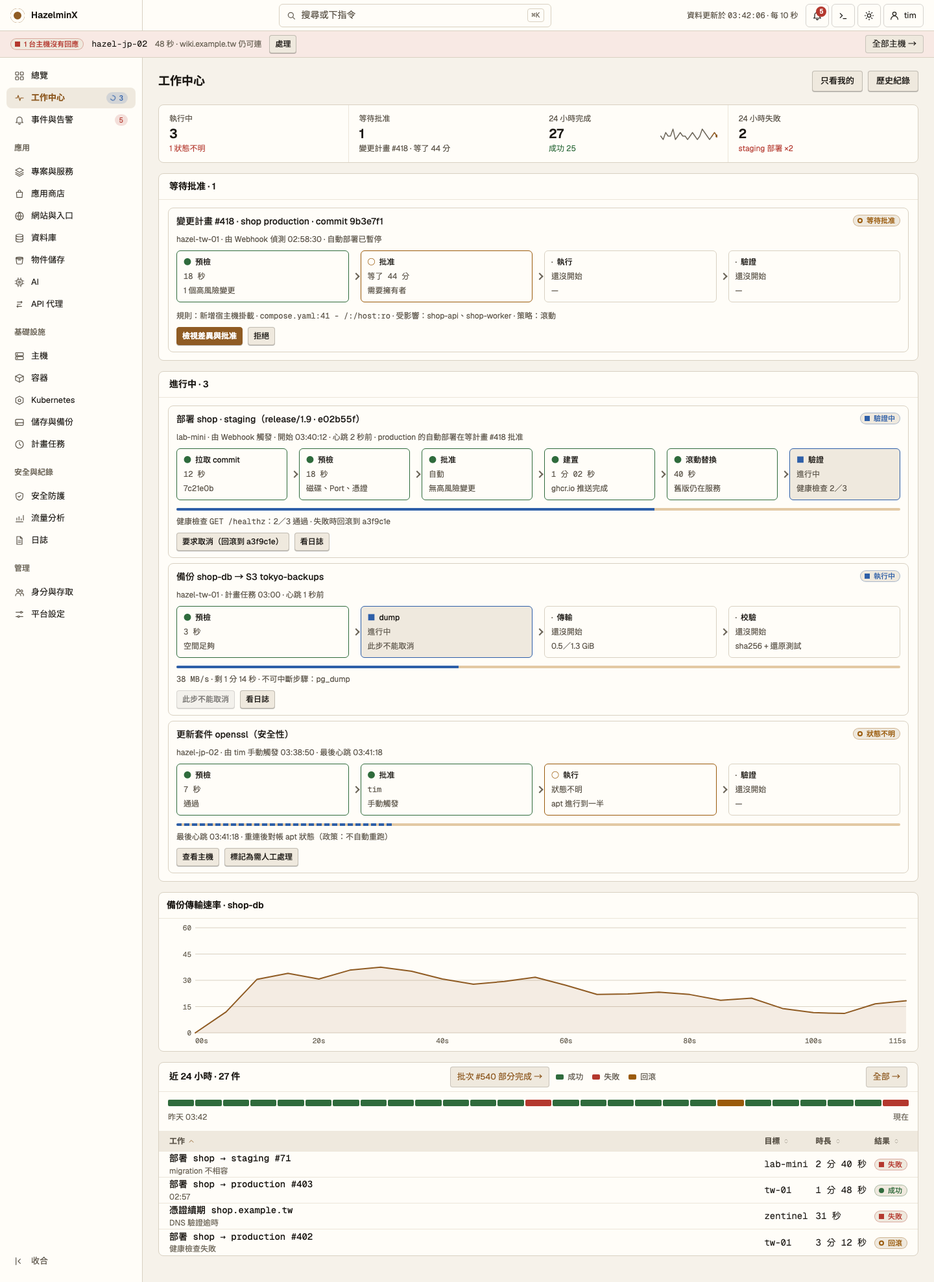
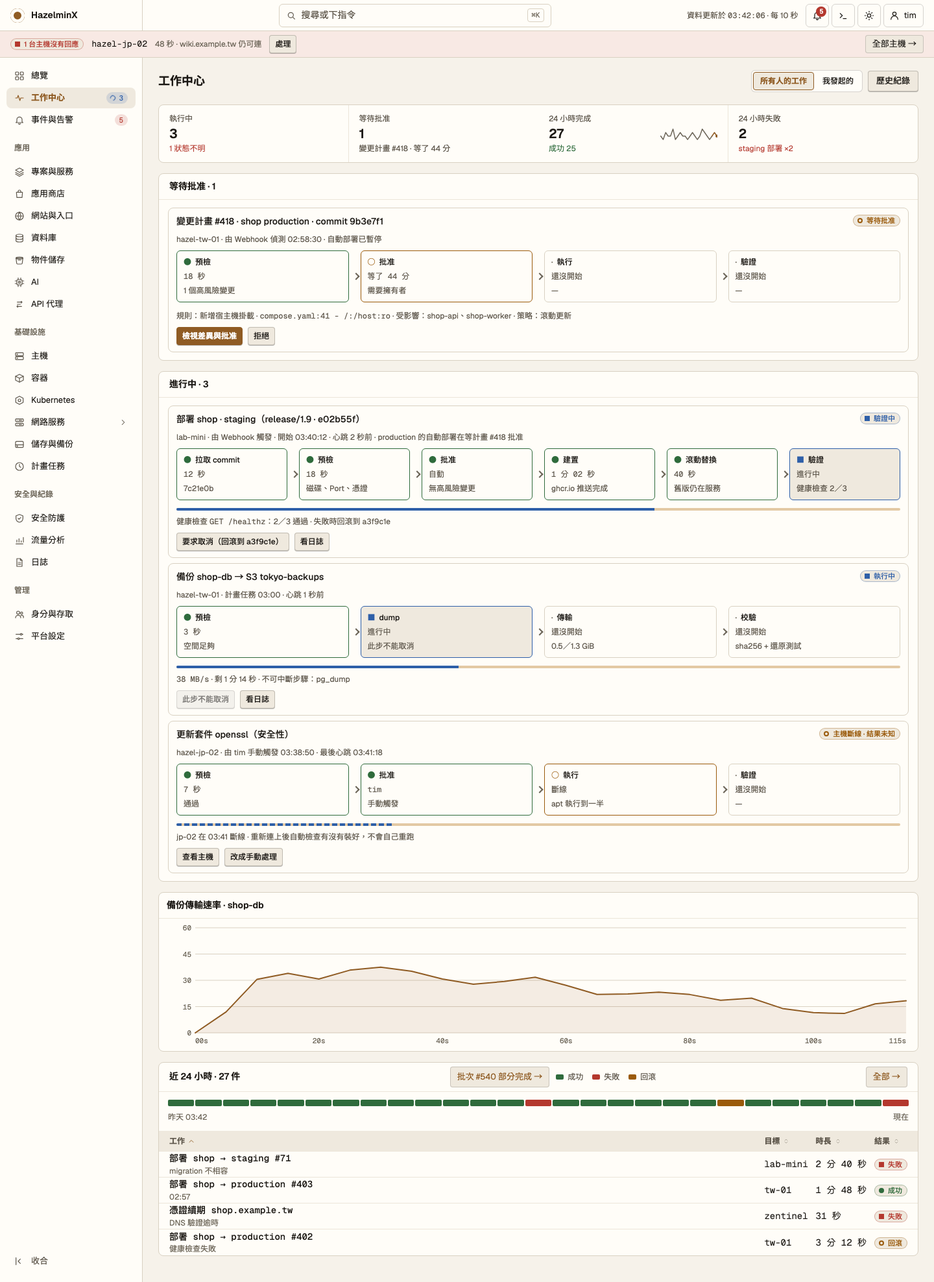
design: say plainly what an unknown job state means on the work center

diff --git a/design/screens/M-WorkCenter.dc.html b/design/screens/M-WorkCenter.dc.html
@@ -510,7 +510,7 @@ body{margin:0}
       <div class="list" style="padding: 12px 14px">
         <article class="job" style="gap: 8px"><div class="t"><span style="font-weight: 500">部署 shop · staging（release/1.9 · e02b55f）</span><span class="st info"><i aria-hidden="true"></i>驗證中</span></div><div class="s">lab-mini · 由 Webhook 觸發 · 開始 03:40:12 · 心跳 2 秒前 · production 的自動部署在等計畫 #418 批准</div><div class="pipe" style="--n:6"><div class="pstage done"><span class="t"><span aria-hidden="true" style="color:var(--ok)">●</span>拉取 commit</span><span class="mono">12 秒</span><span>7c21e0b</span></div><div class="pstage done"><span class="t"><span aria-hidden="true" style="color:var(--ok)">●</span>預檢</span><span class="mono">18 秒</span><span>磁碟、Port、憑證</span></div><div class="pstage done"><span class="t"><span aria-hidden="true" style="color:var(--ok)">●</span>批准</span><span class="mono">自動</span><span>無高風險變更</span></div><div class="pstage done"><span class="t"><span aria-hidden="true" style="color:var(--ok)">●</span>建置</span><span class="mono">1 分 02 秒</span><span>ghcr.io 推送完成</span></div><div class="pstage done"><span class="t"><span aria-hidden="true" style="color:var(--ok)">●</span>滾動替換</span><span class="mono">40 秒</span><span>舊版仍在服務</span></div><div class="pstage cur"><span class="t"><span aria-hidden="true" style="color:var(--blue)">■</span>驗證</span><span class="mono">進行中</span><span>健康檢查 2／3</span></div></div><div class="prog" aria-hidden="true"><i style="width: 66%"></i></div><div class="s">健康檢查 <span class='mono'>GET /healthz</span>：2／3 通過 · 失敗時回滾到 a3f9c1e</div><div class="wrap"><button type="button" class="btn sm">要求取消（回滾到 a3f9c1e）</button><button type="button" class="btn sm">看日誌</button></div></article>
         <article class="job" style="gap: 8px"><div class="t"><span style="font-weight: 500">備份 shop-db → S3 tokyo-backups</span><span class="st info"><i aria-hidden="true"></i>執行中</span></div><div class="s">hazel-tw-01 · 計畫任務 03:00 · 心跳 1 秒前</div><div class="pipe" style="--n:4"><div class="pstage done"><span class="t"><span aria-hidden="true" style="color:var(--ok)">●</span>預檢</span><span class="mono">3 秒</span><span>空間足夠</span></div><div class="pstage cur"><span class="t"><span aria-hidden="true" style="color:var(--blue)">■</span>dump</span><span class="mono">進行中</span><span>此步不能取消</span></div><div class="pstage todo"><span class="t"><span aria-hidden="true" style="color:var(--faint)">·</span>傳輸</span><span class="mono">還沒開始</span><span>0.5／1.3 GiB</span></div><div class="pstage todo"><span class="t"><span aria-hidden="true" style="color:var(--faint)">·</span>校驗</span><span class="mono">還沒開始</span><span>sha256 + 還原測試</span></div></div><div class="prog" aria-hidden="true"><i style="width: 39%"></i></div><div class="s"><span class='mono'>38 MB/s</span> · 剩 1 分 14 秒 · 不可中斷步驟：pg_dump</div><div class="wrap"><button type="button" class="btn sm" disabled aria-disabled="true" style="opacity:.6">此步不能取消</button><button type="button" class="btn sm">看日誌</button></div></article>
-        <article class="job" style="gap: 8px"><div class="t"><span style="font-weight: 500">更新套件 openssl（安全性）</span><span class="st warn"><i aria-hidden="true"></i>狀態不明</span></div><div class="s">hazel-jp-02 · 由 tim 手動觸發 03:38:50 · 最後心跳 03:41:18</div><div class="pipe" style="--n:4"><div class="pstage done"><span class="t"><span aria-hidden="true" style="color:var(--ok)">●</span>預檢</span><span class="mono">7 秒</span><span>通過</span></div><div class="pstage done"><span class="t"><span aria-hidden="true" style="color:var(--ok)">●</span>批准</span><span class="mono">tim</span><span>手動觸發</span></div><div class="pstage wait"><span class="t"><span aria-hidden="true" style="color:var(--warn)">○</span>執行</span><span class="mono">狀態不明</span><span>apt 進行到一半</span></div><div class="pstage todo"><span class="t"><span aria-hidden="true" style="color:var(--faint)">·</span>驗證</span><span class="mono">還沒開始</span><span>—</span></div></div><div class="prog pulse" aria-hidden="true"><i></i></div><div class="s">最後心跳 03:41:18 · 重連後對帳 apt 狀態（政策：不自動重跑）</div><div class="wrap"><button type="button" class="btn sm">查看主機</button><button type="button" class="btn sm">標記為需人工處理</button></div></article>
+        <article class="job" style="gap: 8px"><div class="t"><span style="font-weight: 500">更新套件 openssl（安全性）</span><span class="st warn"><i aria-hidden="true"></i>主機斷線 · 結果未知</span></div><div class="s">hazel-jp-02 · 由 tim 手動觸發 03:38:50 · 最後心跳 03:41:18</div><div class="pipe" style="--n:4"><div class="pstage done"><span class="t"><span aria-hidden="true" style="color:var(--ok)">●</span>預檢</span><span class="mono">7 秒</span><span>通過</span></div><div class="pstage done"><span class="t"><span aria-hidden="true" style="color:var(--ok)">●</span>批准</span><span class="mono">tim</span><span>手動觸發</span></div><div class="pstage wait"><span class="t"><span aria-hidden="true" style="color:var(--warn)">○</span>執行</span><span class="mono">斷線</span><span>apt 執行到一半</span></div><div class="pstage todo"><span class="t"><span aria-hidden="true" style="color:var(--faint)">·</span>驗證</span><span class="mono">還沒開始</span><span>—</span></div></div><div class="prog pulse" aria-hidden="true"><i></i></div><div class="s">jp-02 在 03:41 斷線 · 重新連上後自動檢查有沒有裝好，不會自己重跑</div><div class="wrap"><button type="button" class="btn sm">查看主機</button><button type="button" class="btn sm">改成手動處理</button></div></article>
       </div>
     </section><div class="cg"><section class="chart"><div class="ph"><h2>備份傳輸速率 · shop-db</h2></div><div class="body"><div class="ts" role="img" aria-label="MB/s" style="height:190px"><div class="yl"><span style="top:100.00%">0</span><span style="top:75.00%">15</span><span style="top:50.00%">30</span><span style="top:25.00%">45</span><span style="top:0.00%">60</span></div><div class="pa"><svg class="plot" viewBox="0 0 1000 100" preserveAspectRatio="none" aria-hidden="true"><line class="grid" x1="0" y1="100.00" x2="1000" y2="100.00" vector-effect="non-scaling-stroke"/><line class="grid" x1="0" y1="75.00" x2="1000" y2="75.00" vector-effect="non-scaling-stroke"/><line class="grid" x1="0" y1="50.00" x2="1000" y2="50.00" vector-effect="non-scaling-stroke"/><line class="grid" x1="0" y1="25.00" x2="1000" y2="25.00" vector-effect="non-scaling-stroke"/><line class="grid" x1="0" y1="0.00" x2="1000" y2="0.00" vector-effect="non-scaling-stroke"/><path d="M0.00,100.00 L43.48,80.00 L86.96,35.77 L130.43,28.12 L173.91,27.02 L217.39,31.73 L260.87,37.05 L304.35,44.26 L347.83,44.40 L391.30,53.23 L434.78,53.89 L478.26,61.00 L521.74,61.17 L565.22,61.21 L608.70,60.42 L652.17,53.16 L695.65,63.03 L739.13,56.21 L782.61,56.85 L826.09,55.60 L869.57,52.29 L913.04,45.48 L956.52,47.98 L1000.00,49.61 L1000.00,100 L0,100 Z" fill="var(--hazel)" fill-opacity=".10"/><path d="M0.00,100.00 L43.48,80.00 L86.96,35.77 L130.43,28.12 L173.91,27.02 L217.39,31.73 L260.87,37.05 L304.35,44.26 L347.83,44.40 L391.30,53.23 L434.78,53.89 L478.26,61.00 L521.74,61.17 L565.22,61.21 L608.70,60.42 L652.17,53.16 L695.65,63.03 L739.13,56.21 L782.61,56.85 L826.09,55.60 L869.57,52.29 L913.04,45.48 L956.52,47.98 L1000.00,49.61" fill="none" stroke="var(--hazel)" stroke-width="2" stroke-linejoin="round" stroke-linecap="round" vector-effect="non-scaling-stroke"/></svg><div class="hits"><span class="hit" tabindex="0" style="left:0.00%;width:2.17%"><i class="xh" style="left:0.0%"></i><span class="tip"><span class="k">00s</span><span></span><span class="k"><i style="background:var(--hazel)"></i>MB/s</span><b>0</b></span></span><span class="hit" tabindex="0" style="left:2.17%;width:4.35%"><i class="xh" style="left:50.0%"></i><span class="tip"><span class="k">05s</span><span></span><span class="k"><i style="background:var(--hazel)"></i>MB/s</span><b>12</b></span></span><span class="hit" tabindex="0" style="left:6.52%;width:4.35%"><i class="xh" style="left:50.0%"></i><span class="tip"><span class="k">10s</span><span></span><span class="k"><i style="background:var(--hazel)"></i>MB/s</span><b>39</b></span></span><span class="hit" tabindex="0" style="left:10.87%;width:4.35%"><i class="xh" style="left:50.0%"></i><span class="tip"><span class="k">15s</span><span></span><span class="k"><i style="background:var(--hazel)"></i>MB/s</span><b>43</b></span></span><span class="hit" tabindex="0" style="left:15.22%;width:4.35%"><i class="xh" style="left:50.0%"></i><span class="tip"><span class="k">20s</span><span></span><span class="k"><i style="background:var(--hazel)"></i>MB/s</span><b>44</b></span></span><span class="hit" tabindex="0" style="left:19.57%;width:4.35%"><i class="xh" style="left:50.0%"></i><span class="tip"><span class="k">25s</span><span></span><span class="k"><i style="background:var(--hazel)"></i>MB/s</span><b>41</b></span></span><span class="hit" tabindex="0" style="left:23.91%;width:4.35%"><i class="xh" style="left:50.0%"></i><span class="tip"><span class="k">30s</span><span></span><span class="k"><i style="background:var(--hazel)"></i>MB/s</span><b>38</b></span></span><span class="hit" tabindex="0" style="left:28.26%;width:4.35%"><i class="xh" style="left:50.0%"></i><span class="tip"><span class="k">35s</span><span></span><span class="k"><i style="background:var(--hazel)"></i>MB/s</span><b>33</b></span></span><span class="hit" tabindex="0" style="left:32.61%;width:4.35%"><i class="xh" style="left:50.0%"></i><span class="tip"><span class="k">40s</span><span></span><span class="k"><i style="background:var(--hazel)"></i>MB/s</span><b>33</b></span></span><span class="hit" tabindex="0" style="left:36.96%;width:4.35%"><i class="xh" style="left:50.0%"></i><span class="tip"><span class="k">45s</span><span></span><span class="k"><i style="background:var(--hazel)"></i>MB/s</span><b>28</b></span></span><span class="hit" tabindex="0" style="left:41.30%;width:4.35%"><i class="xh" style="left:50.0%"></i><span class="tip"><span class="k">50s</span><span></span><span class="k"><i style="background:var(--hazel)"></i>MB/s</span><b>28</b></span></span><span class="hit" tabindex="0" style="left:45.65%;width:4.35%"><i class="xh" style="left:50.0%"></i><span class="tip"><span class="k">55s</span><span></span><span class="k"><i style="background:var(--hazel)"></i>MB/s</span><b>23</b></span></span><span class="hit flip" tabindex="0" style="left:50.00%;width:4.35%"><i class="xh" style="left:50.0%"></i><span class="tip"><span class="k">60s</span><span></span><span class="k"><i style="background:var(--hazel)"></i>MB/s</span><b>23</b></span></span><span class="hit flip" tabindex="0" style="left:54.35%;width:4.35%"><i class="xh" style="left:50.0%"></i><span class="tip"><span class="k">65s</span><span></span><span class="k"><i style="background:var(--hazel)"></i>MB/s</span><b>23</b></span></span><span class="hit flip" tabindex="0" style="left:58.70%;width:4.35%"><i class="xh" style="left:50.0%"></i><span class="tip"><span class="k">70s</span><span></span><span class="k"><i style="background:var(--hazel)"></i>MB/s</span><b>24</b></span></span><span class="hit flip" tabindex="0" style="left:63.04%;width:4.35%"><i class="xh" style="left:50.0%"></i><span class="tip"><span class="k">75s</span><span></span><span class="k"><i style="background:var(--hazel)"></i>MB/s</span><b>28</b></span></span><span class="hit flip" tabindex="0" style="left:67.39%;width:4.35%"><i class="xh" style="left:50.0%"></i><span class="tip"><span class="k">80s</span><span></span><span class="k"><i style="background:var(--hazel)"></i>MB/s</span><b>22</b></span></span><span class="hit flip" tabindex="0" style="left:71.74%;width:4.35%"><i class="xh" style="left:50.0%"></i><span class="tip"><span class="k">85s</span><span></span><span class="k"><i style="background:var(--hazel)"></i>MB/s</span><b>26</b></span></span><span class="hit flip" tabindex="0" style="left:76.09%;width:4.35%"><i class="xh" style="left:50.0%"></i><span class="tip"><span class="k">90s</span><span></span><span class="k"><i style="background:var(--hazel)"></i>MB/s</span><b>26</b></span></span><span class="hit flip" tabindex="0" style="left:80.43%;width:4.35%"><i class="xh" style="left:50.0%"></i><span class="tip"><span class="k">95s</span><span></span><span class="k"><i style="background:var(--hazel)"></i>MB/s</span><b>27</b></span></span><span class="hit flip" tabindex="0" style="left:84.78%;width:4.35%"><i class="xh" style="left:50.0%"></i><span class="tip"><span class="k">100s</span><span></span><span class="k"><i style="background:var(--hazel)"></i>MB/s</span><b>29</b></span></span><span class="hit flip" tabindex="0" style="left:89.13%;width:4.35%"><i class="xh" style="left:50.0%"></i><span class="tip"><span class="k">105s</span><span></span><span class="k"><i style="background:var(--hazel)"></i>MB/s</span><b>33</b></span></span><span class="hit flip" tabindex="0" style="left:93.48%;width:4.35%"><i class="xh" style="left:50.0%"></i><span class="tip"><span class="k">110s</span><span></span><span class="k"><i style="background:var(--hazel)"></i>MB/s</span><b>31</b></span></span><span class="hit flip" tabindex="0" style="left:97.83%;width:2.17%"><i class="xh" style="left:100.0%"></i><span class="tip"><span class="k">115s</span><span></span><span class="k"><i style="background:var(--hazel)"></i>MB/s</span><b>30</b></span></span></div></div><div class="xl"><span class="a0" style="left:0.00%">00s</span><span class=" xo" style="left:17.39%">20s</span><span class="" style="left:34.78%">40s</span><span class=" xo" style="left:52.17%">60s</span><span class="" style="left:69.57%">80s</span><span class=" xo" style="left:86.96%">100s</span><span class="a1" style="left:100.00%">115s</span></div></div></div></section>
     <section class="panel" aria-labelledby="h-hist">

diff --git a/design/screens/WorkCenter.dc.html b/design/screens/WorkCenter.dc.html
@@ -510,7 +510,7 @@ body{margin:0}
       <div class="list" style="padding: 12px 14px">
         <article class="job" style="gap: 8px"><div class="t"><span style="font-weight: 500">部署 shop · staging（release/1.9 · e02b55f）</span><span class="st info"><i aria-hidden="true"></i>驗證中</span></div><div class="s">lab-mini · 由 Webhook 觸發 · 開始 03:40:12 · 心跳 2 秒前 · production 的自動部署在等計畫 #418 批准</div><div class="pipe" style="--n:6"><div class="pstage done"><span class="t"><span aria-hidden="true" style="color:var(--ok)">●</span>拉取 commit</span><span class="mono">12 秒</span><span>7c21e0b</span></div><div class="pstage done"><span class="t"><span aria-hidden="true" style="color:var(--ok)">●</span>預檢</span><span class="mono">18 秒</span><span>磁碟、Port、憑證</span></div><div class="pstage done"><span class="t"><span aria-hidden="true" style="color:var(--ok)">●</span>批准</span><span class="mono">自動</span><span>無高風險變更</span></div><div class="pstage done"><span class="t"><span aria-hidden="true" style="color:var(--ok)">●</span>建置</span><span class="mono">1 分 02 秒</span><span>ghcr.io 推送完成</span></div><div class="pstage done"><span class="t"><span aria-hidden="true" style="color:var(--ok)">●</span>滾動替換</span><span class="mono">40 秒</span><span>舊版仍在服務</span></div><div class="pstage cur"><span class="t"><span aria-hidden="true" style="color:var(--blue)">■</span>驗證</span><span class="mono">進行中</span><span>健康檢查 2／3</span></div></div><div class="prog" aria-hidden="true"><i style="width: 66%"></i></div><div class="s">健康檢查 <span class='mono'>GET /healthz</span>：2／3 通過 · 失敗時回滾到 a3f9c1e</div><div class="wrap"><button type="button" class="btn sm">要求取消（回滾到 a3f9c1e）</button><button type="button" class="btn sm">看日誌</button></div></article>
         <article class="job" style="gap: 8px"><div class="t"><span style="font-weight: 500">備份 shop-db → S3 tokyo-backups</span><span class="st info"><i aria-hidden="true"></i>執行中</span></div><div class="s">hazel-tw-01 · 計畫任務 03:00 · 心跳 1 秒前</div><div class="pipe" style="--n:4"><div class="pstage done"><span class="t"><span aria-hidden="true" style="color:var(--ok)">●</span>預檢</span><span class="mono">3 秒</span><span>空間足夠</span></div><div class="pstage cur"><span class="t"><span aria-hidden="true" style="color:var(--blue)">■</span>dump</span><span class="mono">進行中</span><span>此步不能取消</span></div><div class="pstage todo"><span class="t"><span aria-hidden="true" style="color:var(--faint)">·</span>傳輸</span><span class="mono">還沒開始</span><span>0.5／1.3 GiB</span></div><div class="pstage todo"><span class="t"><span aria-hidden="true" style="color:var(--faint)">·</span>校驗</span><span class="mono">還沒開始</span><span>sha256 + 還原測試</span></div></div><div class="prog" aria-hidden="true"><i style="width: 39%"></i></div><div class="s"><span class='mono'>38 MB/s</span> · 剩 1 分 14 秒 · 不可中斷步驟：pg_dump</div><div class="wrap"><button type="button" class="btn sm" disabled aria-disabled="true" style="opacity:.6">此步不能取消</button><button type="button" class="btn sm">看日誌</button></div></article>
-        <article class="job" style="gap: 8px"><div class="t"><span style="font-weight: 500">更新套件 openssl（安全性）</span><span class="st warn"><i aria-hidden="true"></i>狀態不明</span></div><div class="s">hazel-jp-02 · 由 tim 手動觸發 03:38:50 · 最後心跳 03:41:18</div><div class="pipe" style="--n:4"><div class="pstage done"><span class="t"><span aria-hidden="true" style="color:var(--ok)">●</span>預檢</span><span class="mono">7 秒</span><span>通過</span></div><div class="pstage done"><span class="t"><span aria-hidden="true" style="color:var(--ok)">●</span>批准</span><span class="mono">tim</span><span>手動觸發</span></div><div class="pstage wait"><span class="t"><span aria-hidden="true" style="color:var(--warn)">○</span>執行</span><span class="mono">狀態不明</span><span>apt 進行到一半</span></div><div class="pstage todo"><span class="t"><span aria-hidden="true" style="color:var(--faint)">·</span>驗證</span><span class="mono">還沒開始</span><span>—</span></div></div><div class="prog pulse" aria-hidden="true"><i></i></div><div class="s">最後心跳 03:41:18 · 重連後對帳 apt 狀態（政策：不自動重跑）</div><div class="wrap"><button type="button" class="btn sm">查看主機</button><button type="button" class="btn sm">標記為需人工處理</button></div></article>
+        <article class="job" style="gap: 8px"><div class="t"><span style="font-weight: 500">更新套件 openssl（安全性）</span><span class="st warn"><i aria-hidden="true"></i>主機斷線 · 結果未知</span></div><div class="s">hazel-jp-02 · 由 tim 手動觸發 03:38:50 · 最後心跳 03:41:18</div><div class="pipe" style="--n:4"><div class="pstage done"><span class="t"><span aria-hidden="true" style="color:var(--ok)">●</span>預檢</span><span class="mono">7 秒</span><span>通過</span></div><div class="pstage done"><span class="t"><span aria-hidden="true" style="color:var(--ok)">●</span>批准</span><span class="mono">tim</span><span>手動觸發</span></div><div class="pstage wait"><span class="t"><span aria-hidden="true" style="color:var(--warn)">○</span>執行</span><span class="mono">斷線</span><span>apt 執行到一半</span></div><div class="pstage todo"><span class="t"><span aria-hidden="true" style="color:var(--faint)">·</span>驗證</span><span class="mono">還沒開始</span><span>—</span></div></div><div class="prog pulse" aria-hidden="true"><i></i></div><div class="s">jp-02 在 03:41 斷線 · 重新連上後自動檢查有沒有裝好，不會自己重跑</div><div class="wrap"><button type="button" class="btn sm">查看主機</button><button type="button" class="btn sm">改成手動處理</button></div></article>
       </div>
     </section><div class="cg"><section class="chart"><div class="ph"><h2>備份傳輸速率 · shop-db</h2></div><div class="body"><div class="ts" role="img" aria-label="MB/s" style="height:190px"><div class="yl"><span style="top:100.00%">0</span><span style="top:75.00%">15</span><span style="top:50.00%">30</span><span style="top:25.00%">45</span><span style="top:0.00%">60</span></div><div class="pa"><svg class="plot" viewBox="0 0 1000 100" preserveAspectRatio="none" aria-hidden="true"><line class="grid" x1="0" y1="100.00" x2="1000" y2="100.00" vector-effect="non-scaling-stroke"/><line class="grid" x1="0" y1="75.00" x2="1000" y2="75.00" vector-effect="non-scaling-stroke"/><line class="grid" x1="0" y1="50.00" x2="1000" y2="50.00" vector-effect="non-scaling-stroke"/><line class="grid" x1="0" y1="25.00" x2="1000" y2="25.00" vector-effect="non-scaling-stroke"/><line class="grid" x1="0" y1="0.00" x2="1000" y2="0.00" vector-effect="non-scaling-stroke"/><path d="M0.00,100.00 L43.48,80.00 L86.96,49.03 L130.43,43.39 L173.91,48.74 L217.39,40.34 L260.87,37.43 L304.35,41.35 L347.83,48.79 L391.30,53.76 L434.78,51.03 L478.26,47.06 L521.74,54.82 L565.22,63.41 L608.70,62.92 L652.17,61.26 L695.65,63.50 L739.13,69.03 L782.61,67.01 L826.09,76.80 L869.57,80.77 L913.04,81.55 L956.52,72.38 L1000.00,69.48 L1000.00,100 L0,100 Z" fill="var(--hazel)" fill-opacity=".10"/><path d="M0.00,100.00 L43.48,80.00 L86.96,49.03 L130.43,43.39 L173.91,48.74 L217.39,40.34 L260.87,37.43 L304.35,41.35 L347.83,48.79 L391.30,53.76 L434.78,51.03 L478.26,47.06 L521.74,54.82 L565.22,63.41 L608.70,62.92 L652.17,61.26 L695.65,63.50 L739.13,69.03 L782.61,67.01 L826.09,76.80 L869.57,80.77 L913.04,81.55 L956.52,72.38 L1000.00,69.48" fill="none" stroke="var(--hazel)" stroke-width="2" stroke-linejoin="round" stroke-linecap="round" vector-effect="non-scaling-stroke"/></svg><div class="hits"><span class="hit" tabindex="0" style="left:0.00%;width:2.17%"><i class="xh" style="left:0.0%"></i><span class="tip"><span class="k">00s</span><span></span><span class="k"><i style="background:var(--hazel)"></i>MB/s</span><b>0</b></span></span><span class="hit" tabindex="0" style="left:2.17%;width:4.35%"><i class="xh" style="left:50.0%"></i><span class="tip"><span class="k">05s</span><span></span><span class="k"><i style="background:var(--hazel)"></i>MB/s</span><b>12</b></span></span><span class="hit" tabindex="0" style="left:6.52%;width:4.35%"><i class="xh" style="left:50.0%"></i><span class="tip"><span class="k">10s</span><span></span><span class="k"><i style="background:var(--hazel)"></i>MB/s</span><b>31</b></span></span><span class="hit" tabindex="0" style="left:10.87%;width:4.35%"><i class="xh" style="left:50.0%"></i><span class="tip"><span class="k">15s</span><span></span><span class="k"><i style="background:var(--hazel)"></i>MB/s</span><b>34</b></span></span><span class="hit" tabindex="0" style="left:15.22%;width:4.35%"><i class="xh" style="left:50.0%"></i><span class="tip"><span class="k">20s</span><span></span><span class="k"><i style="background:var(--hazel)"></i>MB/s</span><b>31</b></span></span><span class="hit" tabindex="0" style="left:19.57%;width:4.35%"><i class="xh" style="left:50.0%"></i><span class="tip"><span class="k">25s</span><span></span><span class="k"><i style="background:var(--hazel)"></i>MB/s</span><b>36</b></span></span><span class="hit" tabindex="0" style="left:23.91%;width:4.35%"><i class="xh" style="left:50.0%"></i><span class="tip"><span class="k">30s</span><span></span><span class="k"><i style="background:var(--hazel)"></i>MB/s</span><b>38</b></span></span><span class="hit" tabindex="0" style="left:28.26%;width:4.35%"><i class="xh" style="left:50.0%"></i><span class="tip"><span class="k">35s</span><span></span><span class="k"><i style="background:var(--hazel)"></i>MB/s</span><b>35</b></span></span><span class="hit" tabindex="0" style="left:32.61%;width:4.35%"><i class="xh" style="left:50.0%"></i><span class="tip"><span class="k">40s</span><span></span><span class="k"><i style="background:var(--hazel)"></i>MB/s</span><b>31</b></span></span><span class="hit" tabindex="0" style="left:36.96%;width:4.35%"><i class="xh" style="left:50.0%"></i><span class="tip"><span class="k">45s</span><span></span><span class="k"><i style="background:var(--hazel)"></i>MB/s</span><b>28</b></span></span><span class="hit" tabindex="0" style="left:41.30%;width:4.35%"><i class="xh" style="left:50.0%"></i><span class="tip"><span class="k">50s</span><span></span><span class="k"><i style="background:var(--hazel)"></i>MB/s</span><b>29</b></span></span><span class="hit" tabindex="0" style="left:45.65%;width:4.35%"><i class="xh" style="left:50.0%"></i><span class="tip"><span class="k">55s</span><span></span><span class="k"><i style="background:var(--hazel)"></i>MB/s</span><b>32</b></span></span><span class="hit flip" tabindex="0" style="left:50.00%;width:4.35%"><i class="xh" style="left:50.0%"></i><span class="tip"><span class="k">60s</span><span></span><span class="k"><i style="background:var(--hazel)"></i>MB/s</span><b>27</b></span></span><span class="hit flip" tabindex="0" style="left:54.35%;width:4.35%"><i class="xh" style="left:50.0%"></i><span class="tip"><span class="k">65s</span><span></span><span class="k"><i style="background:var(--hazel)"></i>MB/s</span><b>22</b></span></span><span class="hit flip" tabindex="0" style="left:58.70%;width:4.35%"><i class="xh" style="left:50.0%"></i><span class="tip"><span class="k">70s</span><span></span><span class="k"><i style="background:var(--hazel)"></i>MB/s</span><b>22</b></span></span><span class="hit flip" tabindex="0" style="left:63.04%;width:4.35%"><i class="xh" style="left:50.0%"></i><span class="tip"><span class="k">75s</span><span></span><span class="k"><i style="background:var(--hazel)"></i>MB/s</span><b>23</b></span></span><span class="hit flip" tabindex="0" style="left:67.39%;width:4.35%"><i class="xh" style="left:50.0%"></i><span class="tip"><span class="k">80s</span><span></span><span class="k"><i style="background:var(--hazel)"></i>MB/s</span><b>22</b></span></span><span class="hit flip" tabindex="0" style="left:71.74%;width:4.35%"><i class="xh" style="left:50.0%"></i><span class="tip"><span class="k">85s</span><span></span><span class="k"><i style="background:var(--hazel)"></i>MB/s</span><b>19</b></span></span><span class="hit flip" tabindex="0" style="left:76.09%;width:4.35%"><i class="xh" style="left:50.0%"></i><span class="tip"><span class="k">90s</span><span></span><span class="k"><i style="background:var(--hazel)"></i>MB/s</span><b>20</b></span></span><span class="hit flip" tabindex="0" style="left:80.43%;width:4.35%"><i class="xh" style="left:50.0%"></i><span class="tip"><span class="k">95s</span><span></span><span class="k"><i style="background:var(--hazel)"></i>MB/s</span><b>14</b></span></span><span class="hit flip" tabindex="0" style="left:84.78%;width:4.35%"><i class="xh" style="left:50.0%"></i><span class="tip"><span class="k">100s</span><span></span><span class="k"><i style="background:var(--hazel)"></i>MB/s</span><b>12</b></span></span><span class="hit flip" tabindex="0" style="left:89.13%;width:4.35%"><i class="xh" style="left:50.0%"></i><span class="tip"><span class="k">105s</span><span></span><span class="k"><i style="background:var(--hazel)"></i>MB/s</span><b>11</b></span></span><span class="hit flip" tabindex="0" style="left:93.48%;width:4.35%"><i class="xh" style="left:50.0%"></i><span class="tip"><span class="k">110s</span><span></span><span class="k"><i style="background:var(--hazel)"></i>MB/s</span><b>17</b></span></span><span class="hit flip" tabindex="0" style="left:97.83%;width:2.17%"><i class="xh" style="left:100.0%"></i><span class="tip"><span class="k">115s</span><span></span><span class="k"><i style="background:var(--hazel)"></i>MB/s</span><b>18</b></span></span></div></div><div class="xl"><span class="a0" style="left:0.00%">00s</span><span class=" xo" style="left:17.39%">20s</span><span class="" style="left:34.78%">40s</span><span class=" xo" style="left:52.17%">60s</span><span class="" style="left:69.57%">80s</span><span class=" xo" style="left:86.96%">100s</span><span class="a1" style="left:100.00%">115s</span></div></div></div></section>
     <section class="panel" aria-labelledby="h-hist">

diff --git a/design/tools/build_screens.py b/design/tools/build_screens.py
@@ -717,10 +717,10 @@ def work_center() -> str:
              [("預檢", "done", "3 秒", "空間足夠"), ("dump", "cur", "進行中", "此步不能取消"), ("傳輸", "todo", "還沒開始", "0.5／1.3 GiB"), ("校驗", "todo", "還沒開始", "sha256 + 還原測試")],
              "<span class='mono'>38 MB/s</span> · 剩 1 分 14 秒 · 不可中斷步驟：pg_dump",
              '<button type="button" class="btn sm" disabled aria-disabled="true" style="opacity:.6">此步不能取消</button><button type="button" class="btn sm">看日誌</button>', pct=39)}
-        {job("更新套件 openssl（安全性）", "hazel-jp-02 · 由 tim 手動觸發 03:38:50 · 最後心跳 03:41:18", U.status("warn", "狀態不明"),
-             [("預檢", "done", "7 秒", "通過"), ("批准", "done", "tim", "手動觸發"), ("執行", "wait", "狀態不明", "apt 進行到一半"), ("驗證", "todo", "還沒開始", "—")],
-             "最後心跳 03:41:18 · 重連後對帳 apt 狀態（政策：不自動重跑）",
-             '<button type="button" class="btn sm">查看主機</button><button type="button" class="btn sm">標記為需人工處理</button>', pulse=True)}
+        {job("更新套件 openssl（安全性）", "hazel-jp-02 · 由 tim 手動觸發 03:38:50 · 最後心跳 03:41:18", U.status("warn", "主機斷線 · 結果未知"),
+             [("預檢", "done", "7 秒", "通過"), ("批准", "done", "tim", "手動觸發"), ("執行", "wait", "斷線", "apt 執行到一半"), ("驗證", "todo", "還沒開始", "—")],
+             "jp-02 在 03:41 斷線 · 重新連上後自動檢查有沒有裝好，不會自己重跑",
+             '<button type="button" class="btn sm">查看主機</button><button type="button" class="btn sm">改成手動處理</button>', pulse=True)}
       </div>
     </section>"""
     waiting = f"""
